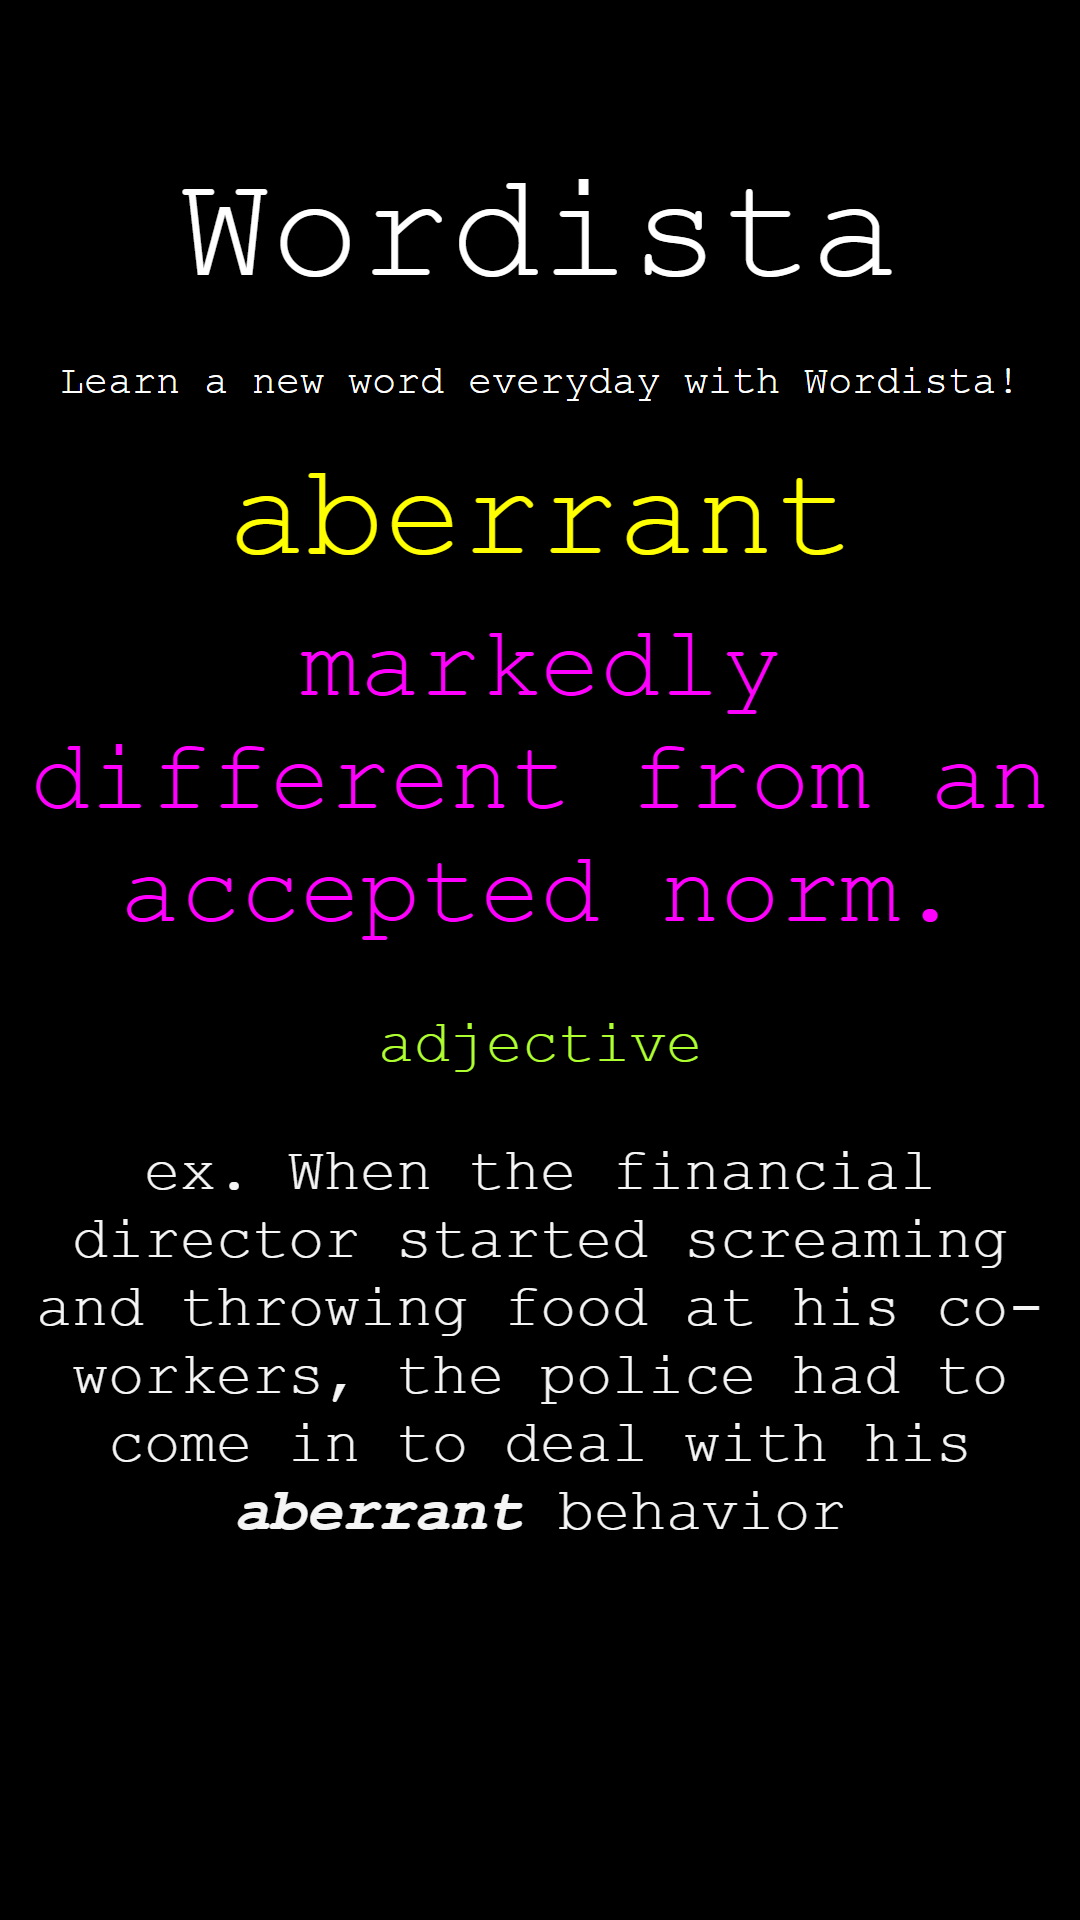
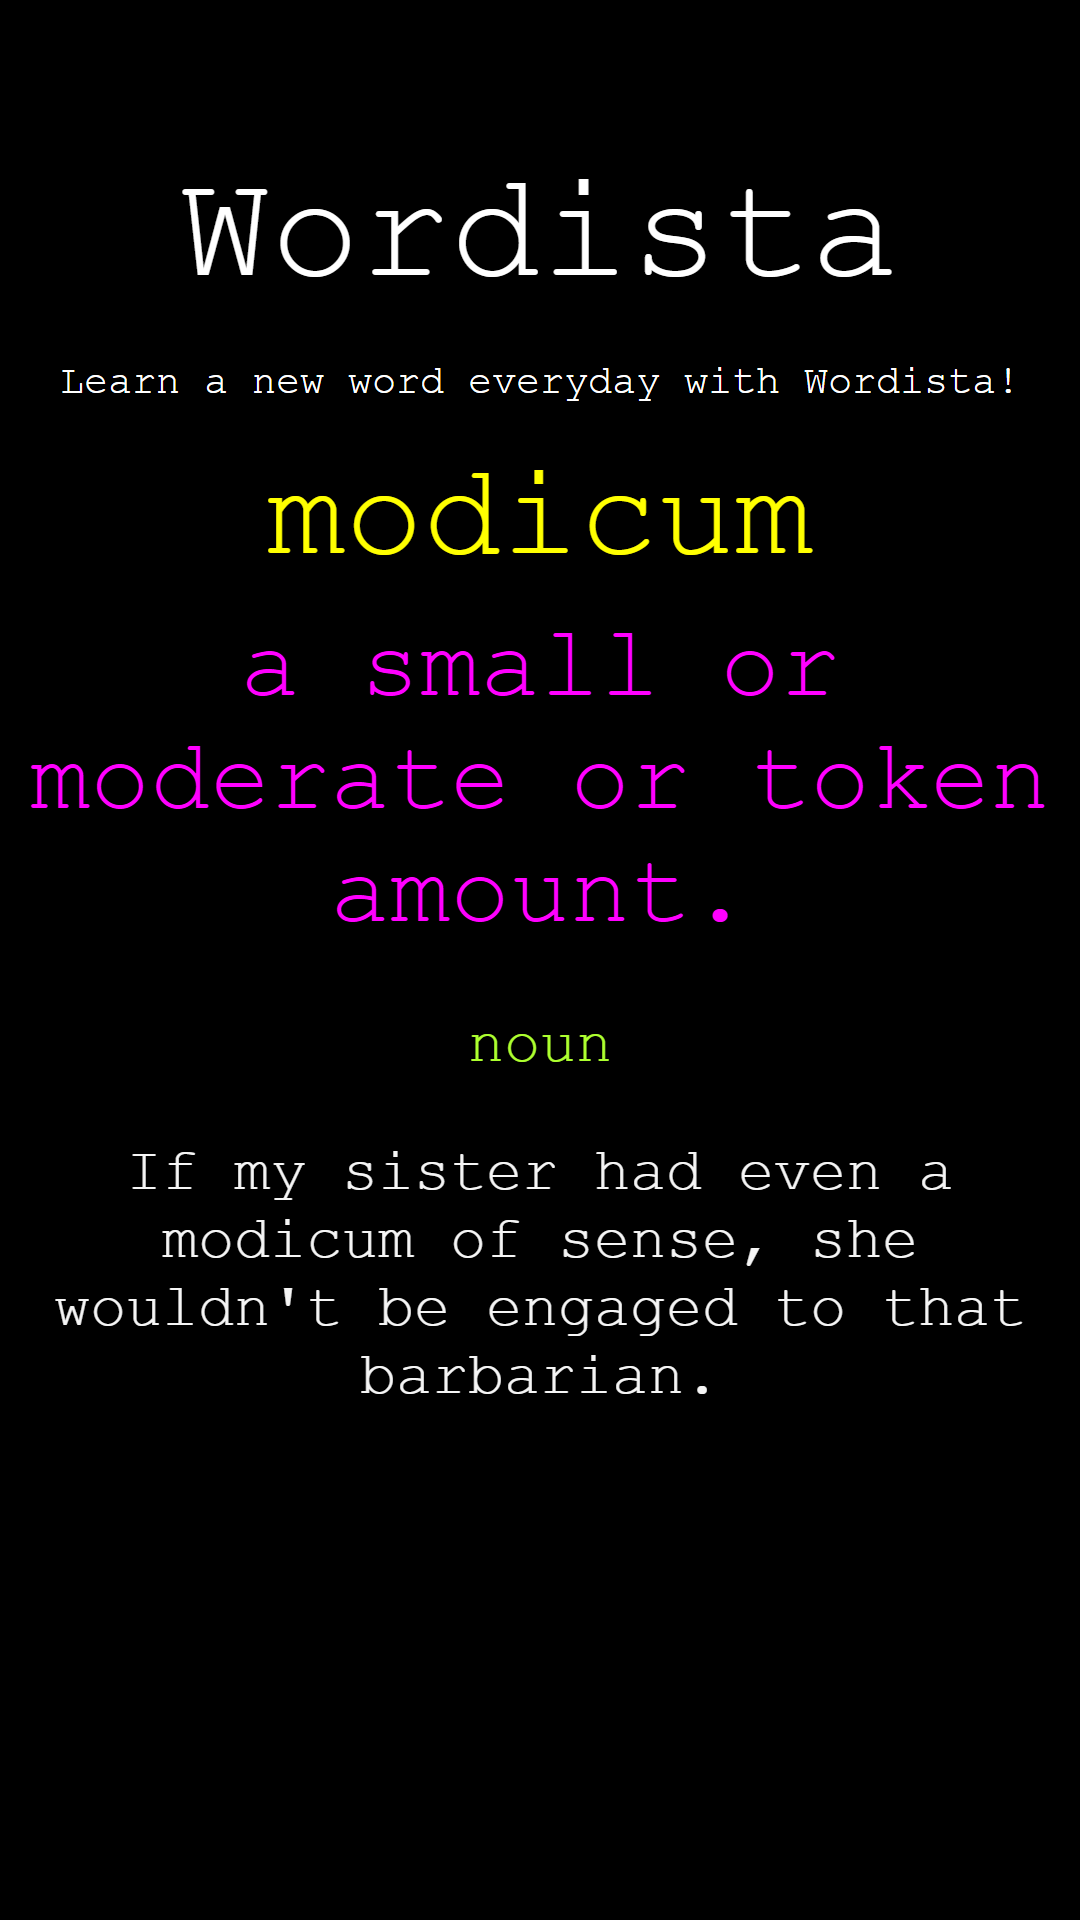
generation of static pages

diff --git a/marketing/aberrant.html b/marketing/aberrant.html
@@ -11,10 +11,10 @@
 <body bgcolor="black">
     <p class="wordista">Wordista</p>
     <p class="wordista-two">Learn a new word everyday with Wordista!</p>
-    <p class="word">@</p>
-    <p class="meaning">%</p>
-    <p class="pos">^</p>
-    <p class="example">*</p>
+    <p class="word">aberrant</p>
+    <p class="meaning">markedly different from an accepted norm.</p>
+    <p class="pos">adjective</p>
+    <p class="example">When the financial director started screaming and throwing food at his co-workers, the police had to come in to deal with his aberrant behavior.</p>
 </body>
 
 </html>

diff --git a/marketing/modicum.html b/marketing/modicum.html
@@ -11,10 +11,10 @@
 <body bgcolor="black">
     <p class="wordista">Wordista</p>
     <p class="wordista-two">Learn a new word everyday with Wordista!</p>
-    <p class="word">@</p>
-    <p class="meaning">%</p>
-    <p class="pos">^</p>
-    <p class="example">*</p>
+    <p class="word">modicum</p>
+    <p class="meaning">a small or moderate or token amount.</p>
+    <p class="pos">noun</p>
+    <p class="example">If my sister had even a modicum of sense, she wouldn't be engaged to that barbarian.</p>
 </body>
 
 </html>

diff --git a/marketing/video-producer.py b/marketing/video-producer.py
@@ -1,6 +1,28 @@
 from html2image import Html2Image
-hti = Html2Image()
-hti.screenshot(
-    html_file='word.html', css_file='word.css',
-    save_as='blue_page.png',size=(1080, 1920)
-)
+import csv
+
+def create_image():
+    hti = Html2Image()
+    hti.screenshot(
+        html_file='modicum.html', css_file='word.css',
+        save_as='blue_page.png',size=(1080, 1920)
+    )
+
+def create_html(word,meaning,pos,example):
+    #@ -> for word
+    #% -> for meaning
+    #^ -> for part of speech
+    #* -> for example
+    with open('word.html','r') as file:
+        data=file.read()    
+
+    data=data.replace('@',word)
+    data=data.replace('%',meaning)
+    data=data.replace('^',pos)
+    data=data.replace('*',example)
+
+    with open(f'{word}.html','w') as file:
+        file.write(data)
+
+#create_html("modicum","a small or moderate or token amount.","noun","If my sister had even a modicum of sense, she wouldn't be engaged to that barbarian.")
+create_image()
